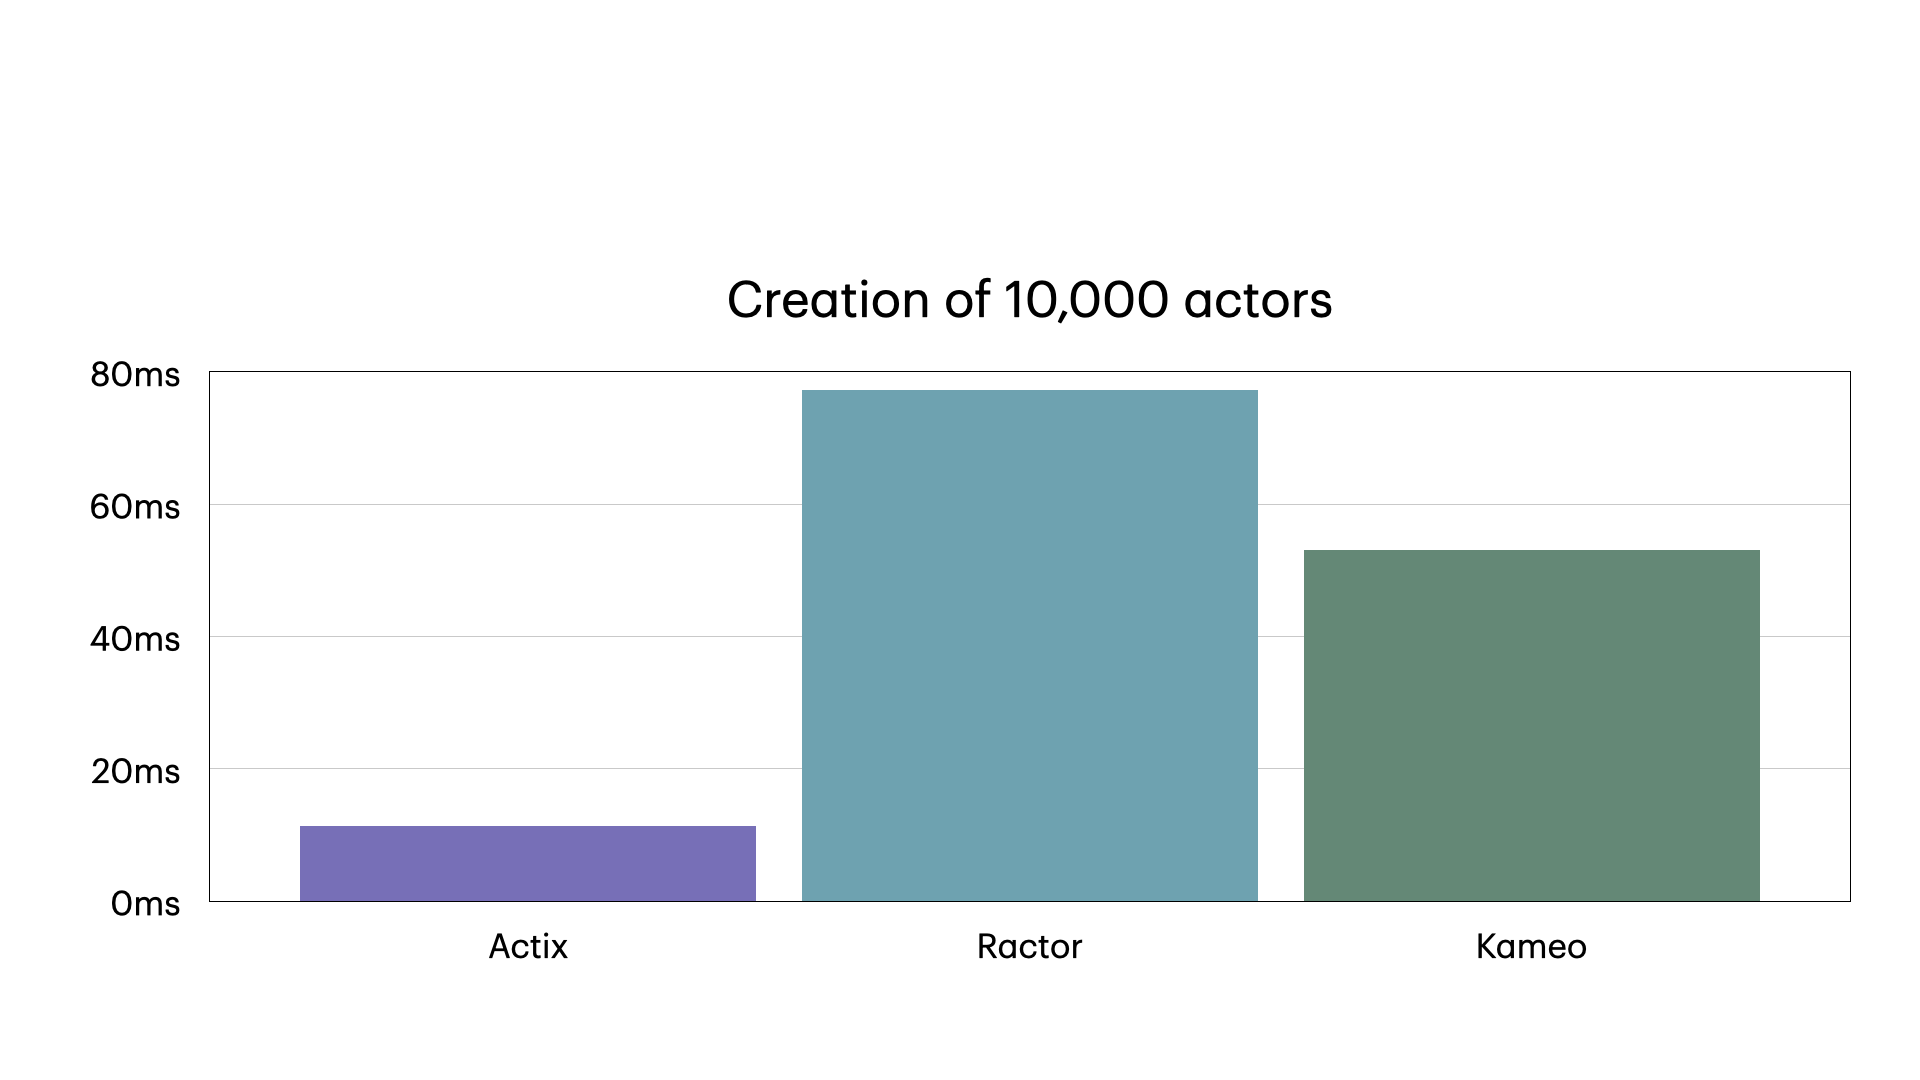
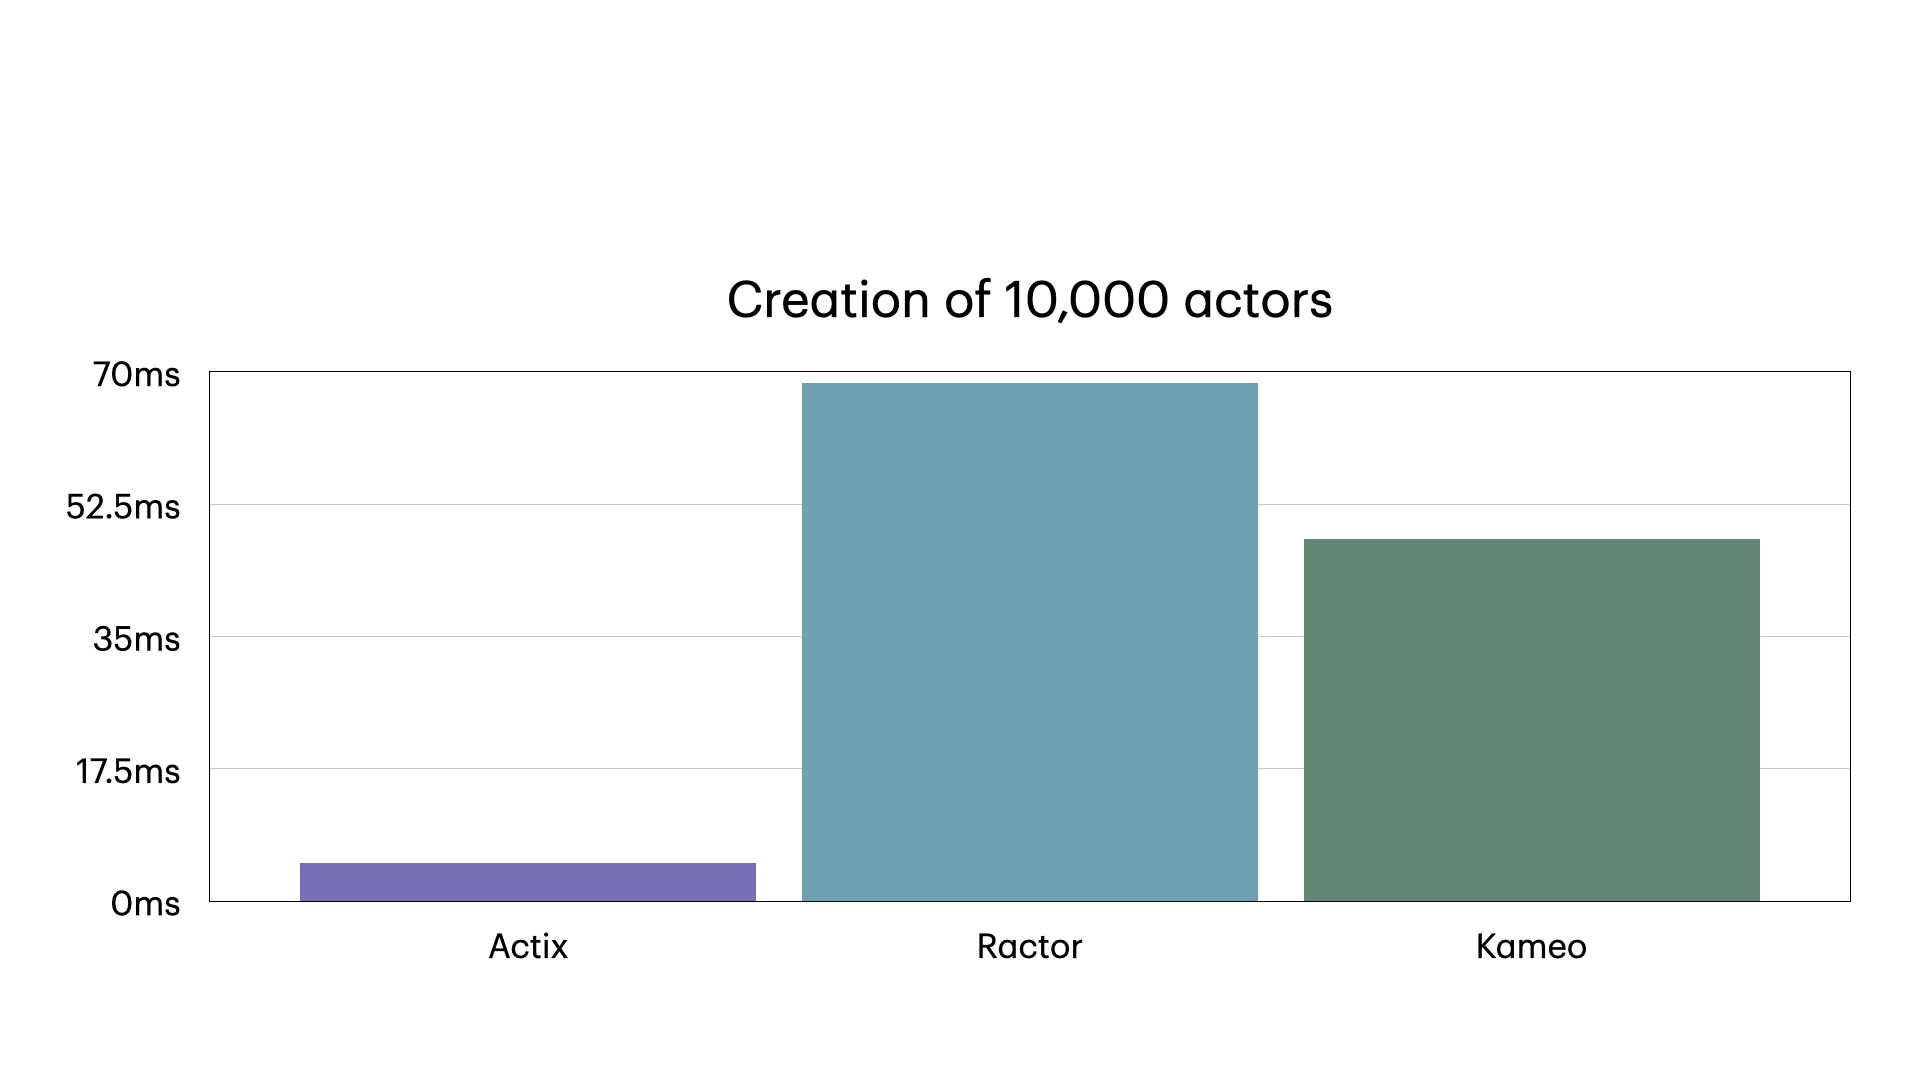
change: use try_send instead of do_send in Actix.

diff --git a/benches/actix.rs b/benches/actix.rs
@@ -1,6 +1,8 @@
 #[macro_use]
 extern crate criterion;
 
+use std::time::Duration;
+
 use actix::prelude::*;
 use criterion::{BatchSize, Criterion};
 
@@ -16,7 +18,6 @@ fn create_actors(c: &mut Criterion) {
 
         fn started(&mut self, ctx: &mut Self::Context) {
             ctx.set_mailbox_capacity(100000);
-            // ctx.notify(BenchActorMessage);
         }
     }
 
@@ -24,7 +25,6 @@ fn create_actors(c: &mut Criterion) {
         type Result = ();
 
         fn handle(&mut self, _msg: BenchActorMessage, _ctx: &mut Context<Self>) -> Self::Result {
-            // ctx.stop();
             ()
         }
     }
@@ -114,16 +114,22 @@ fn process_messages(c: &mut Criterion) {
     }
 
     let id =
-        format!("Waiting on {NUM_MSGS} messages to be processed [ by single-threaded + do_send ]");
+        format!("Waiting on {NUM_MSGS} messages to be processed [ by single-threaded + try_send ]");
     let system = System::new();
     c.bench_function(&id, |b| {
         b.iter_batched(
-            || {},
-            |()| {
+            || {
                 system.block_on(async move {
                     let addr = MessagingActor { state: 0 }.start();
+                    // Send one message to trigger the capacity check
+                    let _ = addr.send(BenchActorMessage { n: 1 }).await.unwrap();
+                    addr
+                })
+            },
+            |addr| {
+                system.block_on(async move {
                     for _ in 0..NUM_MSGS {
-                        let _ = addr.do_send(BenchActorMessage { n: 1 });
+                        let _ = addr.try_send(BenchActorMessage { n: 1 }).unwrap();
                     }
                     addr
                 })
@@ -139,10 +145,9 @@ fn process_messages(c: &mut Criterion) {
     let system = System::new();
     c.bench_function(&id, |b| {
         b.iter_batched(
-            || {},
-            |()| {
+            || system.block_on(async move { MessagingActor { state: 0 }.start() }),
+            |addr| {
                 system.block_on(async move {
-                    let addr = MessagingActor { state: 0 }.start();
                     for _ in 0..NUM_MSGS {
                         let _ = addr.send(BenchActorMessage { n: 1 }).await.unwrap();
                     }
@@ -156,20 +161,25 @@ fn process_messages(c: &mut Criterion) {
     let _ = system.run();
 
     let id =
-        format!("Waiting on {NUM_MSGS} messages to be processed [ by multi-threaded + do_send ]");
+        format!("Waiting on {NUM_MSGS} messages to be processed [ by multi-threaded + try_send ]");
     let system = System::new();
     let arbiter = Arbiter::new();
     c.bench_function(&id, |b| {
         b.iter_batched(
             || {
-                MessagingActor::start_in_arbiter(&arbiter.handle(), |_ctx| MessagingActor {
-                    state: 0,
+                let addr = MessagingActor::start_in_arbiter(&arbiter.handle(), |_ctx| {
+                    MessagingActor { state: 0 }
+                });
+                system.block_on(async move {
+                    // Send one message to trigger the capacity check
+                    let _ = addr.send(BenchActorMessage { n: 1 }).await.unwrap();
+                    addr
                 })
             },
             |addr| {
                 system.block_on(async move {
                     for _ in 0..NUM_MSGS {
-                        let _ = addr.do_send(BenchActorMessage { n: 1 });
+                        let _ = addr.try_send(BenchActorMessage { n: 1 }).unwrap();
                     }
                     addr
                 });
@@ -205,5 +215,9 @@ fn process_messages(c: &mut Criterion) {
     let _ = system.run();
 }
 
-criterion_group!(actix, create_actors, process_messages);
+criterion_group! {
+    name = actix;
+    config = Criterion::default().measurement_time(Duration::from_secs(5)).sample_size(100);
+    targets = create_actors, process_messages
+}
 criterion_main!(actix);

diff --git a/benches/ractor.rs b/benches/ractor.rs
@@ -6,6 +6,8 @@
 #[macro_use]
 extern crate criterion;
 
+use std::time::Duration;
+
 use criterion::{BatchSize, Criterion};
 use ractor::{call_t, Actor, ActorProcessingErr, ActorRef, RpcReplyPort};
 
@@ -23,7 +25,6 @@ fn create_actors(c: &mut Criterion) {
             _myself: ActorRef<Self::Msg>,
             _: (),
         ) -> Result<Self::State, ActorProcessingErr> {
-            // let _ = myself.cast(BenchActorMessage);
             Ok(())
         }
 
@@ -33,7 +34,6 @@ fn create_actors(c: &mut Criterion) {
             _message: Self::Msg,
             _state: &mut Self::State,
         ) -> Result<(), ActorProcessingErr> {
-            // myself.stop(None);
             Ok(())
         }
     }
@@ -237,5 +237,9 @@ fn process_messages(c: &mut Criterion) {
     });
 }
 
-criterion_group!(ractor, create_actors, process_messages);
+criterion_group! {
+    name = ractor;
+    config = Criterion::default().measurement_time(Duration::from_secs(5)).sample_size(100);
+    targets = create_actors, process_messages
+}
 criterion_main!(ractor);

diff --git a/benches/kameo.rs b/benches/kameo.rs
@@ -1,7 +1,7 @@
 #[macro_use]
 extern crate criterion;
 
-use std::future::Future;
+use std::{future::Future, time::Duration};
 
 use criterion::{BatchSize, Criterion};
 use kameo::{
@@ -188,5 +188,9 @@ fn process_messages(c: &mut Criterion) {
     });
 }
 
-criterion_group!(kameo, create_actors, process_messages);
+criterion_group! {
+    name = kameo;
+    config = Criterion::default().measurement_time(Duration::from_secs(5)).sample_size(100);
+    targets = create_actors, process_messages
+}
 criterion_main!(kameo);

diff --git a/README.md b/README.md
@@ -12,30 +12,27 @@
 
 ## cargo bench --bench [actix](https://github.com/actix/actix)
 
-- Creation of 100 actors time: **45.527 µs**
-- Creation of 10000 actors time: **11.389 ms**
-- Waiting on 100000 messages to be processed [ by **single-threaded + do_send** ] time: **14.091 ms**
-- Waiting on 100000 messages to be processed [ by **multi-threaded + do_send** ] time: **28.439 ms**
-- Waiting on 100000 messages to be processed [ by **single-threaded + send** ] time: **224.48 ms**
-- Waiting on 100000 messages to be processed [ by **multi-threaded + send** ] time: **931.06 ms**
+- Creation of 10000 actors time: **5.0315 ms**
+- Waiting on 100000 messages to be processed [ by **single-threaded + try_send** ] time: **9.0102 ms**
+- Waiting on 100000 messages to be processed [ by **multi-threaded + try_send** ] time: **28.867 ms**
+- Waiting on 100000 messages to be processed [ by **single-threaded + send** ] time: **212.71 ms**
+- Waiting on 100000 messages to be processed [ by **multi-threaded + send** ] time: **923.45 ms**
 
 ## cargo bench --bench [ractor](https://github.com/slawlor/ractor)
 
-- Creation of 100 actors time: **850.30 µs**
-- Creation of 10000 actors time: **77.209 ms**
-- Waiting on 100000 messages to be processed [ by **single-threaded + cast** ] time: **37.467 ms**
-- Waiting on 100000 messages to be processed [ by **multi-threaded + cast** ] time: **34.060 ms**
-- Waiting on 100000 messages to be processed [ by **single-threaded + call** ] time: **122.74 ms**
-- Waiting on 100000 messages to be processed [ by **multi-threaded + call** ] time: **1.1686 s**
+- Creation of 10000 actors time: **68.510 ms**
+- Waiting on 100000 messages to be processed [ by **single-threaded + cast** ] time: **36.834 ms**
+- Waiting on 100000 messages to be processed [ by **multi-threaded + cast** ] time: **34.510 ms**
+- Waiting on 100000 messages to be processed [ by **single-threaded + call** ] time: **121.69 ms**
+- Waiting on 100000 messages to be processed [ by **multi-threaded + call** ] time: **1.1713 s**
 
 ## cargo bench --bench [kameo](https://github.com/tqwewe/kameo)
 
-- Creation of 100 actors time: **543.61 µs**
-- Creation of 10000 actors time: **53.045 ms**
-- Waiting on 100000 messages to be processed [ by **single-threaded + tell** ] time: **14.525 ms**
-- Waiting on 100000 messages to be processed [ by **multi-threaded + tell** ] time: **28.440 ms**
-- Waiting on 100000 messages to be processed [ by **single-threaded + ask** ] time: **87.762 ms**
-- Waiting on 100000 messages to be processed [ by **multi-threaded + ask** ] time: **1.1482 s**
+- Creation of 10000 actors time: **47.906 ms**
+- Waiting on 100000 messages to be processed [ by **single-threaded + tell** ] time: **13.954 ms**
+- Waiting on 100000 messages to be processed [ by **multi-threaded + tell** ] time: **27.482 ms**
+- Waiting on 100000 messages to be processed [ by **single-threaded + ask** ] time: **85.921 ms**
+- Waiting on 100000 messages to be processed [ by **multi-threaded + ask** ] time: **1.1574 s**
 
 ## Comparison
 
